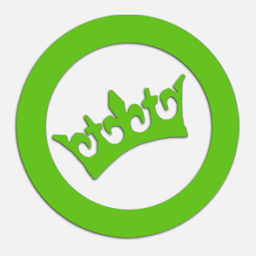
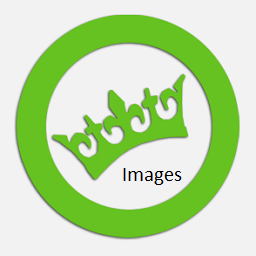
v1.0.2-SNAPSHOT (2018-02-18)
- added 'images' to icon

Changed region(s): [[0.4688, 0.6562, 0.7188, 0.7188]]

diff --git a/default.py b/default.py
@@ -17,8 +17,8 @@ ADDON = "plugin.image.dumpert"
 SETTINGS = xbmcaddon.Addon()
 LANGUAGE = SETTINGS.getLocalizedString
 IMAGE_PATH = os.path.join(xbmcaddon.Addon().getAddonInfo('path'), 'resources', 'images')
-DATE = "2018-01-20"
-VERSION = "1.0.1"
+DATE = "2018-02-18"
+VERSION = "1.0.2-SNAPSHOT"
 
 MODE_LATEST = 1
 
